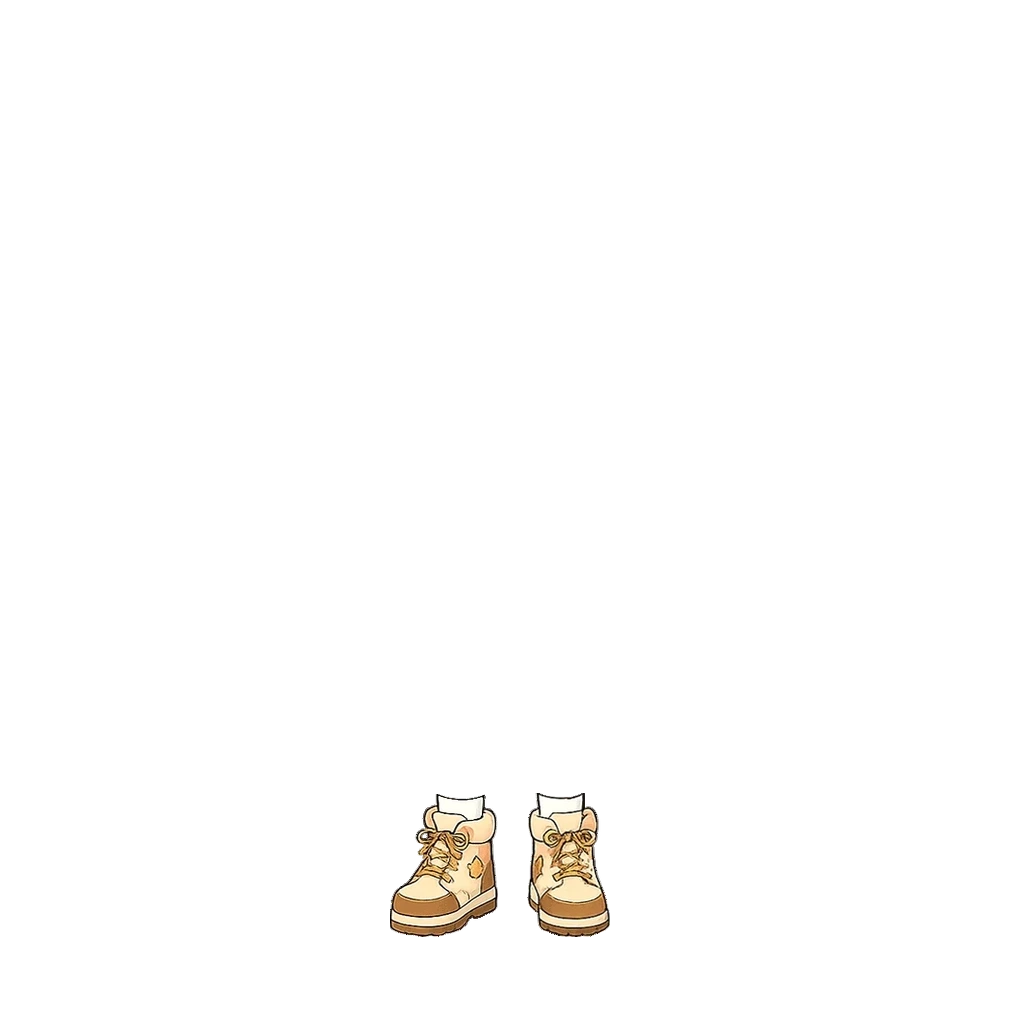
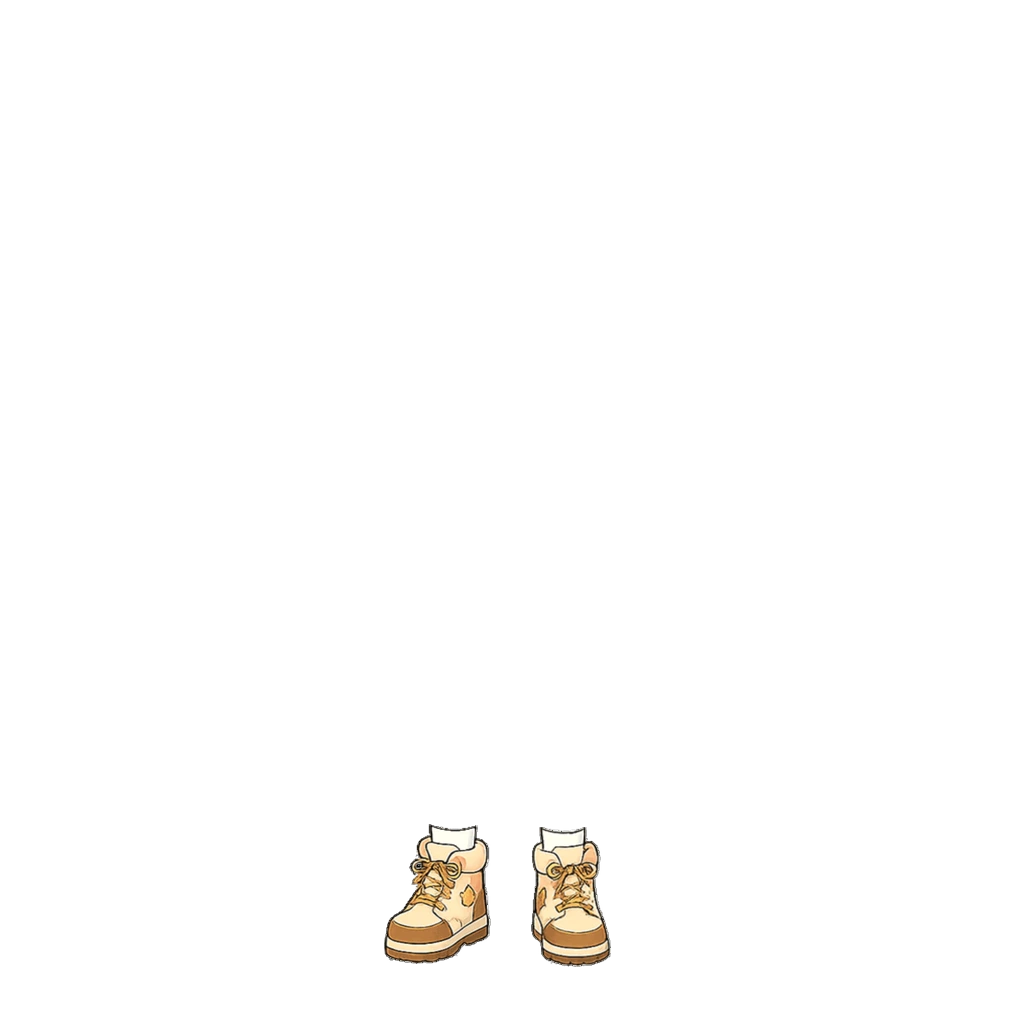
feat: 신발 3종을 좌·우 짝 따로 · 남녀 따로 배치 (사용자와 한 짝씩 맞춘 값)
원화를 한 짝씩 받아 좌·우를 각각 배치하고, 남녀 값을 따로 잡았다.
두 짝이 한 장에 그려진 예전 방식은 좌우 비대칭을 못 잡아 폐기했다.

  신발   남아 좌(중심x/밑창y)  남아 우      여아 좌      여아 우
  탐험   432/963              578/966     434/978     582/981
  새싹   432/963              578/966     434/978     582/981
  크림   437/963              571/966     440/965     571/966

- 성별 그림은 모자와 같은 imgGirl 방식. shoes/*-girl.webp 3장 추가.
- 원화 높이가 140·152·686으로 제각각이라 부츠 높이를 140px로 통일했다.
  안 그러면 신발마다 캐릭터에서 높이가 달라 보인다.
- 축소하면서 흰 테두리가 생겨 6장 모두 halo 보정(624~1,266px).

접지 그림자가 신발을 따라가게 했다 (중요)
  밑창이 맨발 바닥(남 934·여 936)보다 30~45px 아래로 내려와, 그림자를 고정하면
  신발만 그림자 밖으로 나간다. 카탈로그에 soleY/soleYGirl을 두고 뷰어가 읽어
  그림자 높이를 정한다. 맨발이면 935.
  실제 앱 확인 — 맨발 bottom 17px / 남아 탐험 8px / 여아 탐험 4px / 여아 크림 8px.

원화 6장은 art-src/에 보관하고 README에 확정 좌표표와 절차를 기록했다.
vite build 통과.

Claude-Session: https://claude.ai/code/session_018maNuYqDfFyRSe9uKpZhPR

Changed region(s): [[0.375, 0.7812, 0.5938, 0.9688]]

diff --git a/src/components/AvatarViewer.jsx b/src/components/AvatarViewer.jsx
@@ -149,21 +149,24 @@ function BaseCharacter({ baseCharImg, size, gender = "boy", hideHead = false }) 
    캐릭터가 바닥에 닿아 보이게 발밑에 깔아 주는 타원 그림자.
 
    비율은 전부 '1024 캔버스 안에서 실측한 값' 기준이다 (뷰어 상자 = 캔버스 1024).
-     · 바닥선 : 맨발 y934(남)·936(여) / 신발 밑창도 y936(앵커로 통일) → 937 을 중심으로
+     · 바닥선 : 맨발 y934(남)·936(여). 신발을 신으면 그 신발의 밑창(soleY/soleYGirl)을 따라간다
+                — 신발마다 밑창 높이가 달라 고정값을 쓰면 신발만 그림자 밖으로 나간다.
      · 발 폭  : 맨발 205~211px, 부츠 220~230px (캔버스의 20~22.5%)
    그림자 폭은 부츠 발 폭보다 살짝 넓게 잡아 발 바깥으로 조금 번지게 한다.
    퍼센트는 상자 한 변(size) 대비. */
-const SHADOW = { w: 0.235, h: 0.055, cy: 937 / 1024, blur: 0.010 };
+const SHADOW = { w: 0.235, h: 0.055, blur: 0.010 };
+const BARE_SOLE = 935;   // 맨발 바닥 (남 934 · 여 936의 가운데)
 
-function GroundShadow({ size }) {
+function GroundShadow({ size, soleY = BARE_SOLE }) {
   const w = Math.round(size * SHADOW.w);
   const h = Math.max(4, Math.round(size * SHADOW.h));
+  const cy = (soleY + 2) / 1024;   // 밑창보다 2px 아래를 그림자 중심으로
   return (
     <div
       aria-hidden
       style={{
         position: "absolute", left: "50%",
-        bottom: Math.round((1 - SHADOW.cy) * size - h / 2),
+        bottom: Math.round((1 - cy) * size - h / 2),
         transform: "translateX(-50%)",
         width: w, height: h, borderRadius: "50%",
         /* 가운데를 넓게 유지하다 바깥에서 빠르게 사라진다 — 중심만 진한 그라디언트는
@@ -187,6 +190,11 @@ export default function AvatarViewer({ equipped = {}, size = 200, showFrame = tr
   /* 얼굴째 덮는 장비(모자 등)를 쓰면 베이스 머리를 그리지 않는다.
      단, 그 그림이 '로드 완료된 뒤에만' 숨긴다 — 처음 장착하는 순간 이미지가 아직
      안 받아진 상태에서 머리부터 지우면 머리 없는 아이가 한 박자 보인다. */
+  /* 접지 그림자 높이 — 신발을 신었으면 그 신발의 밑창, 맨발이면 기본 바닥선 */
+  const shoeItem = layers.find((l) => l.slot === "shoes")?.item || null;
+  const soleY = (gender === "girl" ? shoeItem?.soleYGirl : shoeItem?.soleY)
+    ?? shoeItem?.soleY ?? BARE_SOLE;
+
   const hidesHeadItem = layers.find((l) => l.item?.hidesHead)?.item || null;
   const hidesHeadSrc = hidesHeadItem ? equipSrc(hidesHeadItem, gender) : null;
   const [readySrc, setReadySrc] = useState(null);
@@ -225,7 +233,7 @@ export default function AvatarViewer({ equipped = {}, size = 200, showFrame = tr
         />
       )}
       {/* 접지 그림자 — 배경 위, 베이스 캐릭터 아래 */}
-      {showShadow && <GroundShadow size={size} />}
+      {showShadow && <GroundShadow size={size} soleY={soleY} />}
       {/* 뒤쪽 레이어(배경·등 장비) → 베이스 캐릭터 → 앞쪽 레이어 순서로 z 배치 */}
       {layers.map((layer) => (
         <div key={layer.slot} style={{ position: "absolute", inset: 0, zIndex: layer.zIndex }}>

diff --git a/src/data/avatarEquipment.js b/src/data/avatarEquipment.js
@@ -126,9 +126,12 @@ export const AVATAR_CATALOG = [
   { id: "bottom_khaki",   slot: "bottom", label: "카키 반바지", emoji: "🩳", price: 130, rarity: "common", theme: "adventure", img: "assets/avatar/bottom/khaki-cargo.webp" },
   { id: "bottom_cream",   slot: "bottom", label: "크림 반바지", emoji: "🩳", price: 150, rarity: "rare",   theme: "adventure", img: "assets/avatar/bottom/cream-cargo.webp" },
   { id: "bottom_denim",   slot: "bottom", label: "데님 반바지", emoji: "🩳", price: 170, rarity: "rare",   theme: "adventure", img: "assets/avatar/bottom/denim-shorts.webp" },
-  { id: "shoes_boots",    slot: "shoes", label: "탐험 부츠",   emoji: "🥾", price: 80,  rarity: "common", theme: "adventure", img: "assets/avatar/shoes/explorer-boots.webp" },
-  { id: "shoes_boots_green", slot: "shoes", label: "새싹 부츠", emoji: "🌱", price: 100, rarity: "common", theme: "adventure", img: "assets/avatar/shoes/green-boots.webp" },
-  { id: "shoes_boots_sand", slot: "shoes", label: "크림 부츠", emoji: "🍦", price: 120, rarity: "common", theme: "adventure", img: "assets/avatar/shoes/cream-boots.webp" },
+  /* 신발 3종 — 좌·우 짝을 따로 배치해 남녀 각각 손으로 맞춘 값이다(사용자 확정).
+     soleY/soleYGirl = 그 신발을 신었을 때의 밑창 높이. 접지 그림자가 이 값을 따라간다
+     (맨발보다 30~45px 아래라, 안 쓰면 신발만 그림자 밖으로 나간다). */
+  { id: "shoes_boots",    slot: "shoes", label: "탐험 부츠",   emoji: "🥾", price: 80,  rarity: "common", theme: "adventure", img: "assets/avatar/shoes/explorer-boots.webp", imgGirl: "assets/avatar/shoes/explorer-boots-girl.webp", soleY: 966, soleYGirl: 981 },
+  { id: "shoes_boots_green", slot: "shoes", label: "새싹 부츠", emoji: "🌱", price: 100, rarity: "common", theme: "adventure", img: "assets/avatar/shoes/green-boots.webp",    imgGirl: "assets/avatar/shoes/green-boots-girl.webp",    soleY: 966, soleYGirl: 981 },
+  { id: "shoes_boots_sand", slot: "shoes", label: "크림 부츠", emoji: "🍦", price: 120, rarity: "common", theme: "adventure", img: "assets/avatar/shoes/cream-boots.webp",    imgGirl: "assets/avatar/shoes/cream-boots-girl.webp",    soleY: 966, soleYGirl: 966 },
   { id: "neck_scarf",     slot: "neck",  label: "빨간 스카프", emoji: "🧣", price: 90,  rarity: "common", theme: "adventure", img: "assets/avatar/neck/red-scarf.webp" },
   /* 탐험 배낭 — 원화가 '앞에서 본 어깨끈'(침낭 롤 + 버클 + 칼집)이라 캐릭터 뒤(z15)에 그리면
      몸통에 완전히 가려진다. 그래서 이 아이템만 z를 상의(35) 위·목장식(40) 아래로 올린다. */

diff --git a/art-src/README.md b/art-src/README.md
@@ -32,24 +32,25 @@ ChatGPT로 생성한 **가공 전 원본 이미지**를 보관한다. 배포(dis
 두 조각으로 갈라지는 일이 있다. bbox가 4px 이내로 붙은 조각을 합친 뒤
 '좌우 폭이 비슷하고 y가 맞는 쌍'을 고르면 안정적이다 (병합 간격을 10px로 키우면
 땋은 머리까지 붙어버려 실패한다).
-**신발 탑재 공식 — 발목 앵커 방식 (사용자 확정)**
-신발마다 좌표를 따로 잡지 말 것. **베이스 발 중심 x와 공통 바닥선 y를 앵커로 고정**하고
-모든 신발을 거기에 맞춘다. 새 신발이 와도 같은 값으로 한 번 돌리면 끝난다.
-  · 좌 발 중심 x=444 · 우 발 중심 x=568 (남녀 베이스 발 중심의 평균)
-  · 밑창 y=936 (맨발 바닥 남 934·여 936과 같은 줄)
-  · 배율 0.96 (밑창 두꺼운 디자인이라 그대로 두면 키가 커 보임)
-**좌·우를 따로 옮길 것** — 원화는 두 짝이 한 장에 그려져 있는데 좌우가 대칭이 아니다.
-연결요소로 두 짝을 분리해 각각 앵커에 맞춰야 한다(실측: 오른쪽 짝이 12px 바깥으로 치우쳐
-있었다). 옛 방식(에셋 bbox 안에 비율 유지로 넣고 바닥만 맞추기)은 이 치우침을 못 잡는다.
-**리사이즈 뒤에는 halo 보정을 다시 돌릴 것** — 축소하면 투명 픽셀의 흰 RGB가 번져
-흰 테두리가 되살아난다(실측: 신발 3장에서 1,670px 재발생).
-**하의 탑재 공식** — 베이스 몸통에 초록 반바지가 그려져 있어, 새 바지는 그 초록을
-**1px도 남기지 않고 덮어야** 한다(가랑이 사이로 초록 실선이 비친다). 베이스 초록 픽셀
-마스크(남녀 합집합)를 만들고, **커버 100%를 만족하는 것 중 삐져나감이 가장 적은
-(배율, 좌상단)** 을 탐색해서 정한다. 현행 — 카키 195×173 @(412,549) / 크림 193×174
-@(411,562) / 데님 190×152 @(414,568). 초록 마스크 y579~713(남) · y573~709(여).
-(알파를 2~3px 팽창시켜 덮는 방법도 시도했지만 가장자리가 너덜너덜해져 폐기했다.
-배율을 조금 키워 덮는 쪽이 깔끔하다.)
+**신발 탑재 공식 — 좌·우 짝 따로 · 남녀 따로 (사용자 확정, 2026-07)**
+원화는 **한 짝씩** 받아 좌·우를 각각 배치한다. 두 짝이 한 장에 그려진 예전 방식은
+좌우 비대칭을 못 잡아서 폐기했다. 성별로도 값이 달라 `imgGirl`로 그림을 따로 둔다.
+크기는 **부츠 높이를 140px로 통일**해야 세 신발이 캐릭터에서 같은 높이로 보인다
+(원화 높이가 140·152·686으로 제각각이라 그대로 쓰면 안 된다).
+
+| 신발 | 남아 좌 (중심x/밑창y) | 남아 우 | 여아 좌 | 여아 우 |
+|---|---|---|---|---|
+| 탐험 | 432 / 963 | 578 / 966 | 434 / 978 | 582 / 981 |
+| 새싹 | 432 / 963 | 578 / 966 | 434 / 978 | 582 / 981 |
+| 크림 | 437 / 963 | 571 / 966 | 440 / 965 | 571 / 966 |
+
+**접지 그림자는 신발을 따라간다** — 밑창이 맨발 바닥(남 934·여 936)보다 30~45px 아래라,
+그림자를 고정하면 신발만 그림자 밖으로 나간다. 카탈로그 아이템의 `soleY`/`soleYGirl`을
+뷰어가 읽어 그림자 높이를 정한다. 맨발이면 935.
+
+**미리보기 눈금 주의** — 위치 확인용 확대 이미지는 계단식(nearest) 확대라 가장자리가
+네모나게 보인다. 그림 결함이 아니다 (실측: 원화 6장 모두 떠 있는 조각 0개).
+
 **어깨끈(배낭) 탑재 공식** — 원화가 '앞에서 본 어깨끈'이면 등 슬롯 기본 z(15, 캐릭터 뒤)로는
 몸통에 가려진다. 카탈로그 아이템에 `z: 37`(상의 35 위·목장식 40 아래)을 달아 앞으로 끌어온다.
 배치는 침낭 롤이 어깨선에 얹히게 — 탐험 배낭은 배율 0.88, 좌상단 (408, 414)에 탑재.
@@ -115,9 +116,12 @@ halo가 외곽선을 흐려서 생긴 착시였다.
 | base-girl-v3.webp | 여아 아바타 베이스 원화 v3 (교체됨) | — |
 | base-boy.webp | 남아 아바타 베이스 원화 v2 (교체됨) | — |
 | base-girl.webp | 여아 아바타 베이스 원화 v2 (교체됨) | — |
-| boots-explorer-v3.webp | 탐험 부츠 원화 v3 (현행) | avatar/shoes/explorer-boots.webp |
-| boots-green-v3.webp | 새싹 부츠 원화 v3 (현행) | avatar/shoes/green-boots.webp |
-| boots-cream-v3.webp | 크림 부츠 원화 v3 (현행) | avatar/shoes/cream-boots.webp |
+| shoe-explorer-L/R.webp | 탐험 부츠 원화 한 짝씩 (현행) | avatar/shoes/explorer-boots(-girl).webp |
+| shoe-green-L/R.webp | 새싹 부츠 원화 한 짝씩 (현행) | avatar/shoes/green-boots(-girl).webp |
+| shoe-cream-L/R.webp | 크림 부츠 원화 한 짝씩 (현행, 고해상도 원본) | avatar/shoes/cream-boots(-girl).webp |
+| boots-explorer-v3.webp | 탐험 부츠 원화 v3 (교체됨) | — |
+| boots-green-v3.webp | 새싹 부츠 원화 v3 (교체됨) | — |
+| boots-cream-v3.webp | 크림 부츠 원화 v3 (교체됨) | — |
 | hat-explorer-v3.webp | 탐험 헬멧 원화 남아 v3 (현행, hidesHead) | avatar/hat/explorer-helmet.webp |
 | hat-explorer-helmet-girl.webp | 탐험 헬멧 원화 여아 (현행, imgGirl) | avatar/hat/explorer-helmet-girl.webp |
 | hat-safari-brown.webp | 사파리 모자 원화 남아 (현행, hidesHead) | avatar/hat/safari-brown.webp |
